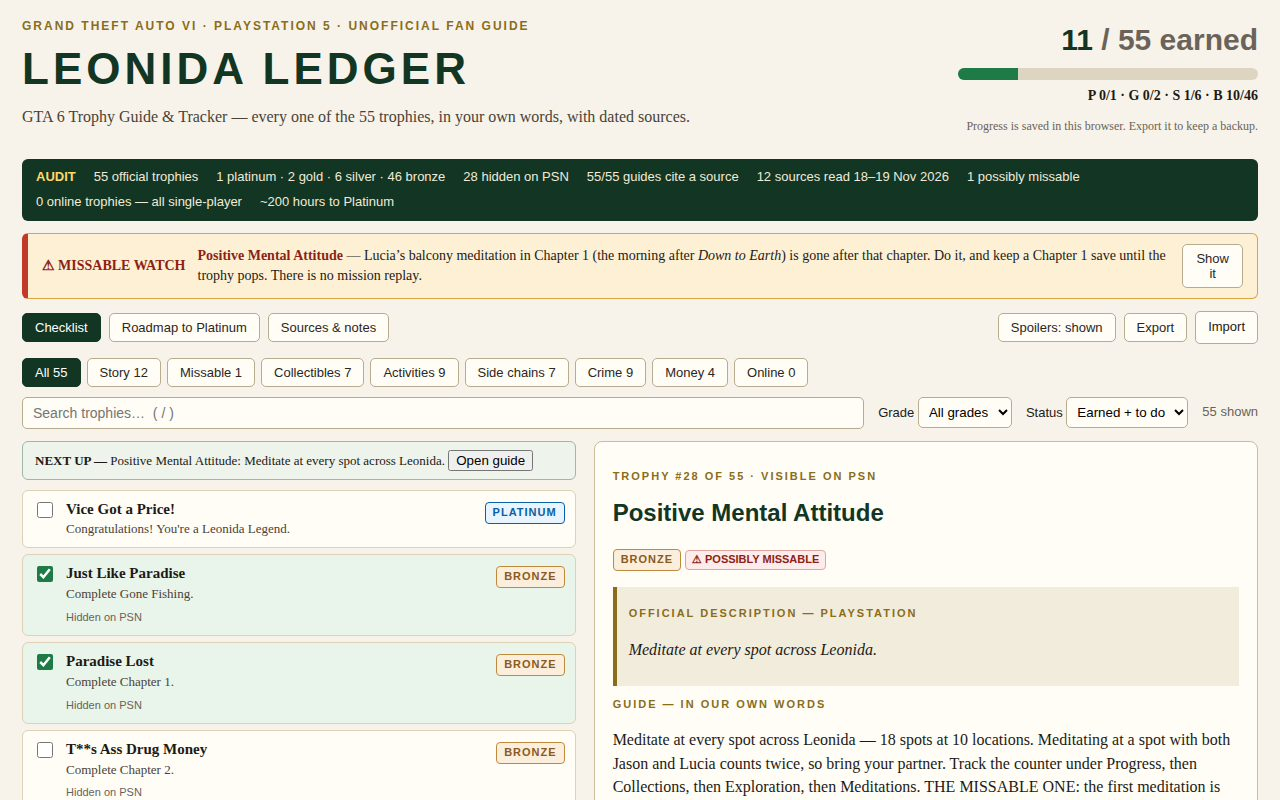
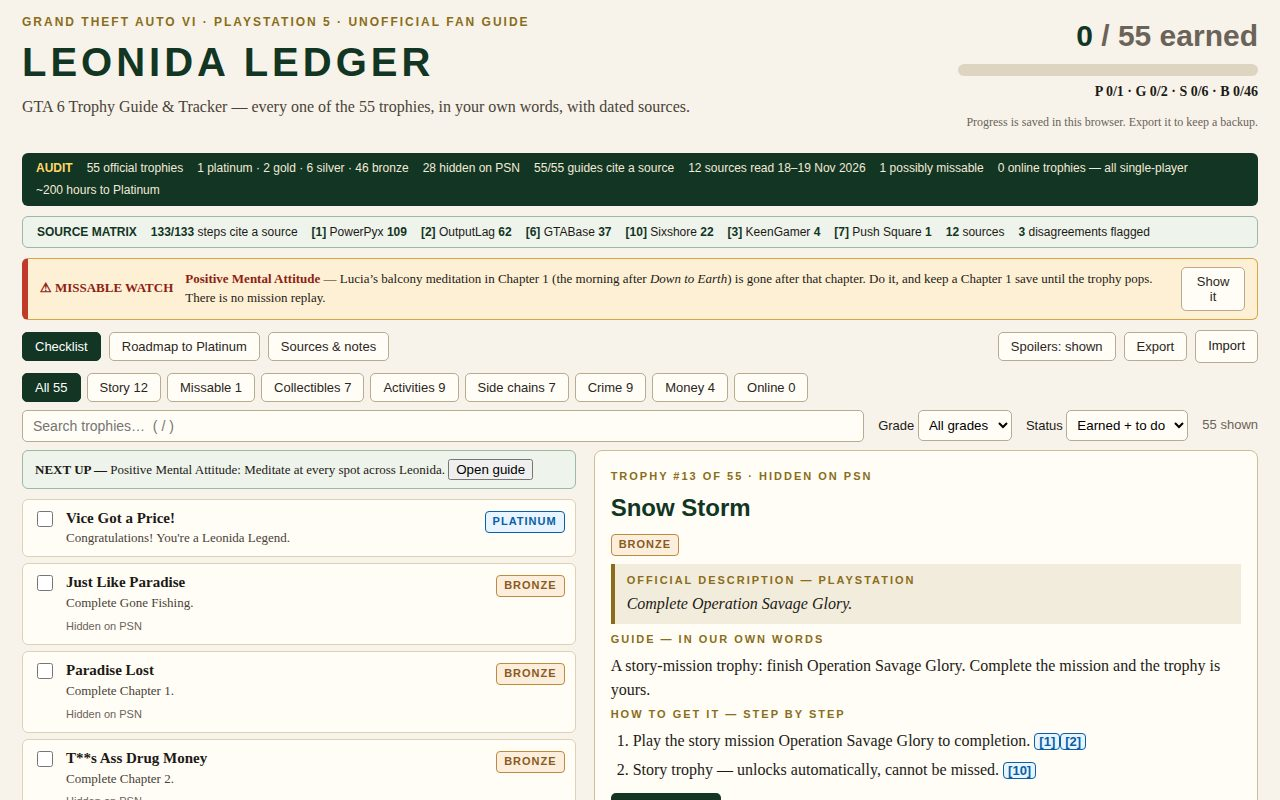
Show cited guidance on the cover: source matrix strip + readable [n] steps
- Add SOURCE MATRIX strip under the audit strip: 133/133 steps cite
  a source, per-source step counts ([1] PowerPyx 109, [2] OutputLag 62,
  [6] GTABase 37, [10] Sixshore 22, [3] KeenGamer 4, [7] Push Square 1),
  12 sources, 3 disagreements flagged (all counts verified from data).
- Wrap [n] markers in steps with <span class="cite"> chips so citations
  are visible at a glance; compact header/detail spacing so the numbered
  steps sit fully above the 800px fold.
- Re-shoot cover with short trophy #13 Snow Storm and 2-guide with #27
  Spin On This! so steps + cites read in full; update shots.json.

Changed region(s): [[0.0, 0.0312, 1.0, 1.0], [0.0, 0.0, 0.5312, 0.1562], [0.6875, 0.5, 1.0, 0.5625]]

diff --git a/app/style.css b/app/style.css
@@ -3,13 +3,13 @@
 * { box-sizing: border-box; }
 body {
   font-family: Georgia, 'Times New Roman', serif;
-  margin: 0 auto; max-width: 1280px; padding: 18px 22px 40px;
+  margin: 0 auto; max-width: 1280px; padding: 14px 22px 40px;
   color: #1d1a16; background: #f7f3ea; line-height: 1.45;
 }
 h1, h2, h3, .kicker, .filters button, .tabs button, .grade-badge, .big-progress {
   font-family: 'Segoe UI', Arial, Helvetica, sans-serif;
 }
-h1 { font-size: 44px; letter-spacing: 4px; margin: 2px 0 4px; color: #123524; }
+h1 { font-size: 40px; letter-spacing: 4px; margin: 2px 0 4px; color: #123524; }
 h2 { font-size: 26px; color: #123524; margin: 18px 0 6px; }
 h3 { font-size: 17px; color: #123524; margin: 20px 0 4px; }
 .muted { color: #6b6259; }
@@ -24,15 +24,21 @@ h3 { font-size: 17px; color: #123524; margin: 20px 0 4px; }
 .grade-counts { margin: 2px 0; font-size: 14px; font-weight: 700; }
 
 .audit {
-  display: flex; flex-wrap: wrap; gap: 6px 18px;
-  background: #123524; color: #f2ead8; padding: 9px 14px; border-radius: 6px;
-  font-family: 'Segoe UI', Arial, sans-serif; font-size: 13px; margin: 12px 0;
+  display: flex; flex-wrap: wrap; gap: 6px 14px;
+  background: #123524; color: #f2ead8; padding: 7px 14px; border-radius: 6px;
+  font-family: 'Segoe UI', Arial, sans-serif; font-size: 12px; line-height: 1.35; margin: 10px 0;
 }
 .audit b { color: #ffd76a; }
+.matrix {
+  display: flex; flex-wrap: wrap; gap: 6px 14px;
+  background: #eef3ec; border: 1px solid #9db8a4; padding: 7px 14px; border-radius: 6px;
+  font-family: 'Segoe UI', Arial, sans-serif; font-size: 12px; line-height: 1.35; margin: 0 0 10px;
+}
+.matrix b { color: #123524; }
 .watch {
   display: flex; gap: 12px; align-items: center;
   background: #fdf0d5; border: 1px solid #d9a441; border-left: 6px solid #c0392b;
-  padding: 10px 14px; border-radius: 6px; font-size: 14px; margin-bottom: 12px;
+  padding: 8px 12px; border-radius: 6px; font-size: 13px; margin-bottom: 10px;
 }
 .watch b { color: #8e1f14; white-space: nowrap; }
 .watch button, .tabs button, .filters button {
@@ -40,14 +46,14 @@ h3 { font-size: 17px; color: #123524; margin: 20px 0 4px; }
   border-radius: 5px; padding: 6px 12px; font-size: 13px; color: #2c261e;
 }
 .watch button:hover, .tabs button:hover, .filters button:hover { background: #f0e8d2; }
-.tabs { display: flex; gap: 8px; align-items: center; margin: 4px 0 14px; flex-wrap: wrap; }
+.tabs { display: flex; gap: 8px; align-items: center; margin: 4px 0 10px; flex-wrap: wrap; }
 .tabs button.active, .filters button.active { background: #123524; color: #fff; border-color: #123524; }
 .tab-spacer { flex: 1; }
 .import-btn { cursor: pointer; border: 1px solid #b7ab90; background: #fffdf6; border-radius: 5px; padding: 6px 12px; font-size: 13px; font-family: 'Segoe UI', Arial, sans-serif; }
 .import-btn input { display: none; }
 
-.filters { display: flex; gap: 6px; flex-wrap: wrap; margin-bottom: 10px; }
-.tools { display: flex; gap: 14px; align-items: center; margin-bottom: 12px; flex-wrap: wrap; font-family: 'Segoe UI', Arial, sans-serif; font-size: 13px; }
+.filters { display: flex; gap: 6px; flex-wrap: wrap; margin-bottom: 8px; }
+.tools { display: flex; gap: 14px; align-items: center; margin-bottom: 8px; flex-wrap: wrap; font-family: 'Segoe UI', Arial, sans-serif; font-size: 13px; }
 .tools input[type="search"] { flex: 1; min-width: 220px; padding: 7px 10px; border: 1px solid #b7ab90; border-radius: 5px; background: #fffdf6; font-size: 14px; }
 .tools select { padding: 6px; border: 1px solid #b7ab90; border-radius: 5px; background: #fffdf6; }
 
@@ -79,13 +85,20 @@ h3 { font-size: 17px; color: #123524; margin: 20px 0 4px; }
 
 .detail {
   background: #fffdf6; border: 1px solid #cbbd9a; border-radius: 8px;
-  padding: 16px 18px; position: sticky; top: 12px;
+  padding: 12px 16px; position: sticky; top: 12px;
 }
+.detail p { margin: 6px 0; }
 .detail h2 { font-size: 24px; margin: 0 0 2px; }
-.detail .official { background: #f2ecdc; border-left: 4px solid #8a6d1b; padding: 8px 12px; margin: 10px 0; font-style: italic; }
+.detail .official { background: #f2ecdc; border-left: 4px solid #8a6d1b; padding: 6px 12px; margin: 8px 0; font-style: italic; }
+.detail .official p { margin: 3px 0; }
 .detail .official .label, .detail .label { font-size: 11px; letter-spacing: 2px; font-weight: 800; color: #8a6d1b; font-family: 'Segoe UI', Arial, sans-serif; font-style: normal; }
 .detail ol.steps { margin: 6px 0 4px; padding-left: 22px; }
 .detail ol.steps li { margin-bottom: 6px; }
+.detail ol.steps .cite {
+  font-weight: 800; font-size: 13px; color: #0b5fa5;
+  background: #e8f4ff; border: 1px solid #0b5fa5; border-radius: 4px;
+  padding: 0 4px; white-space: nowrap;
+}
 .missable-box { background: #fdeceb; border: 1px solid #e0a49e; border-radius: 6px; padding: 10px 12px; margin: 10px 0; font-size: 14px; }
 .missable-box b { color: #8e1f14; }
 .counter { display: flex; gap: 8px; align-items: center; margin: 10px 0; font-family: 'Segoe UI', Arial, sans-serif; font-size: 14px; }

diff --git a/app/app.js b/app/app.js
@@ -190,7 +190,7 @@ function renderDetail() {
     <p class="label">GUIDE — IN OUR OWN WORDS</p>
     <p>${escapeHtml(t.guide)}</p>
     <p class="label">HOW TO GET IT — STEP BY STEP</p>
-    <ol class="steps">${t.steps.map((s) => `<li>${escapeHtml(s)}</li>`).join('')}</ol>`}
+    <ol class="steps">${t.steps.map((s) => `<li>${escapeHtml(s).replace(/\[(\d+)\]/g, '<span class="cite">[$1]</span>')}</li>`).join('')}</ol>`}
     ${t.missable && !hidden ? `<div class="missable-box"><b>MISSABLE?</b> Possibly. The balcony meditation in Chapter 1 is gone after that chapter, and it is unconfirmed whether “every spot” includes it. Do it, and keep a Chapter 1 save until this pops. <span class="cite">[1][2][3][6]</span></div>` : ''}
     ${count && !hidden ? `<div class="counter"><button type="button" data-count="-1" aria-label="Count down">−</button><span><b>${have} / ${count}</b> ${countLabel(t)}</span><button type="button" data-count="1" aria-label="Count up">+</button>${have >= count ? '<span>Target reached — mark it earned.</span>' : ''}</div>` : ''}
     <button type="button" class="mark-btn ${done ? 'earned' : ''}" id="markEarned">${done ? '✓ Earned — tap to unmark' : 'Mark earned'}</button>

diff --git a/app/index.html b/app/index.html
@@ -33,6 +33,19 @@
   <span>~200 hours to Platinum</span>
 </section>
 
+<section class="matrix" id="sourceMatrix" aria-label="Source matrix">
+  <span><b>SOURCE MATRIX</b></span>
+  <span><b>133/133</b> steps cite a source</span>
+  <span><b>[1]</b> PowerPyx <b>109</b></span>
+  <span><b>[2]</b> OutputLag <b>62</b></span>
+  <span><b>[6]</b> GTABase <b>37</b></span>
+  <span><b>[10]</b> Sixshore <b>22</b></span>
+  <span><b>[3]</b> KeenGamer <b>4</b></span>
+  <span><b>[7]</b> Push Square <b>1</b></span>
+  <span><b>12</b> sources</span>
+  <span><b>3</b> disagreements flagged</span>
+</section>
+
 <section class="watch" id="missableWatch">
   <b>&#9888; MISSABLE WATCH</b>
   <span><b>Positive Mental Attitude</b> — Lucia&rsquo;s balcony meditation in Chapter 1 (the morning after <i>Down to Earth</i>) is gone after that chapter. Do it, and keep a Chapter 1 save until the trophy pops. There is no mission replay.</span>
